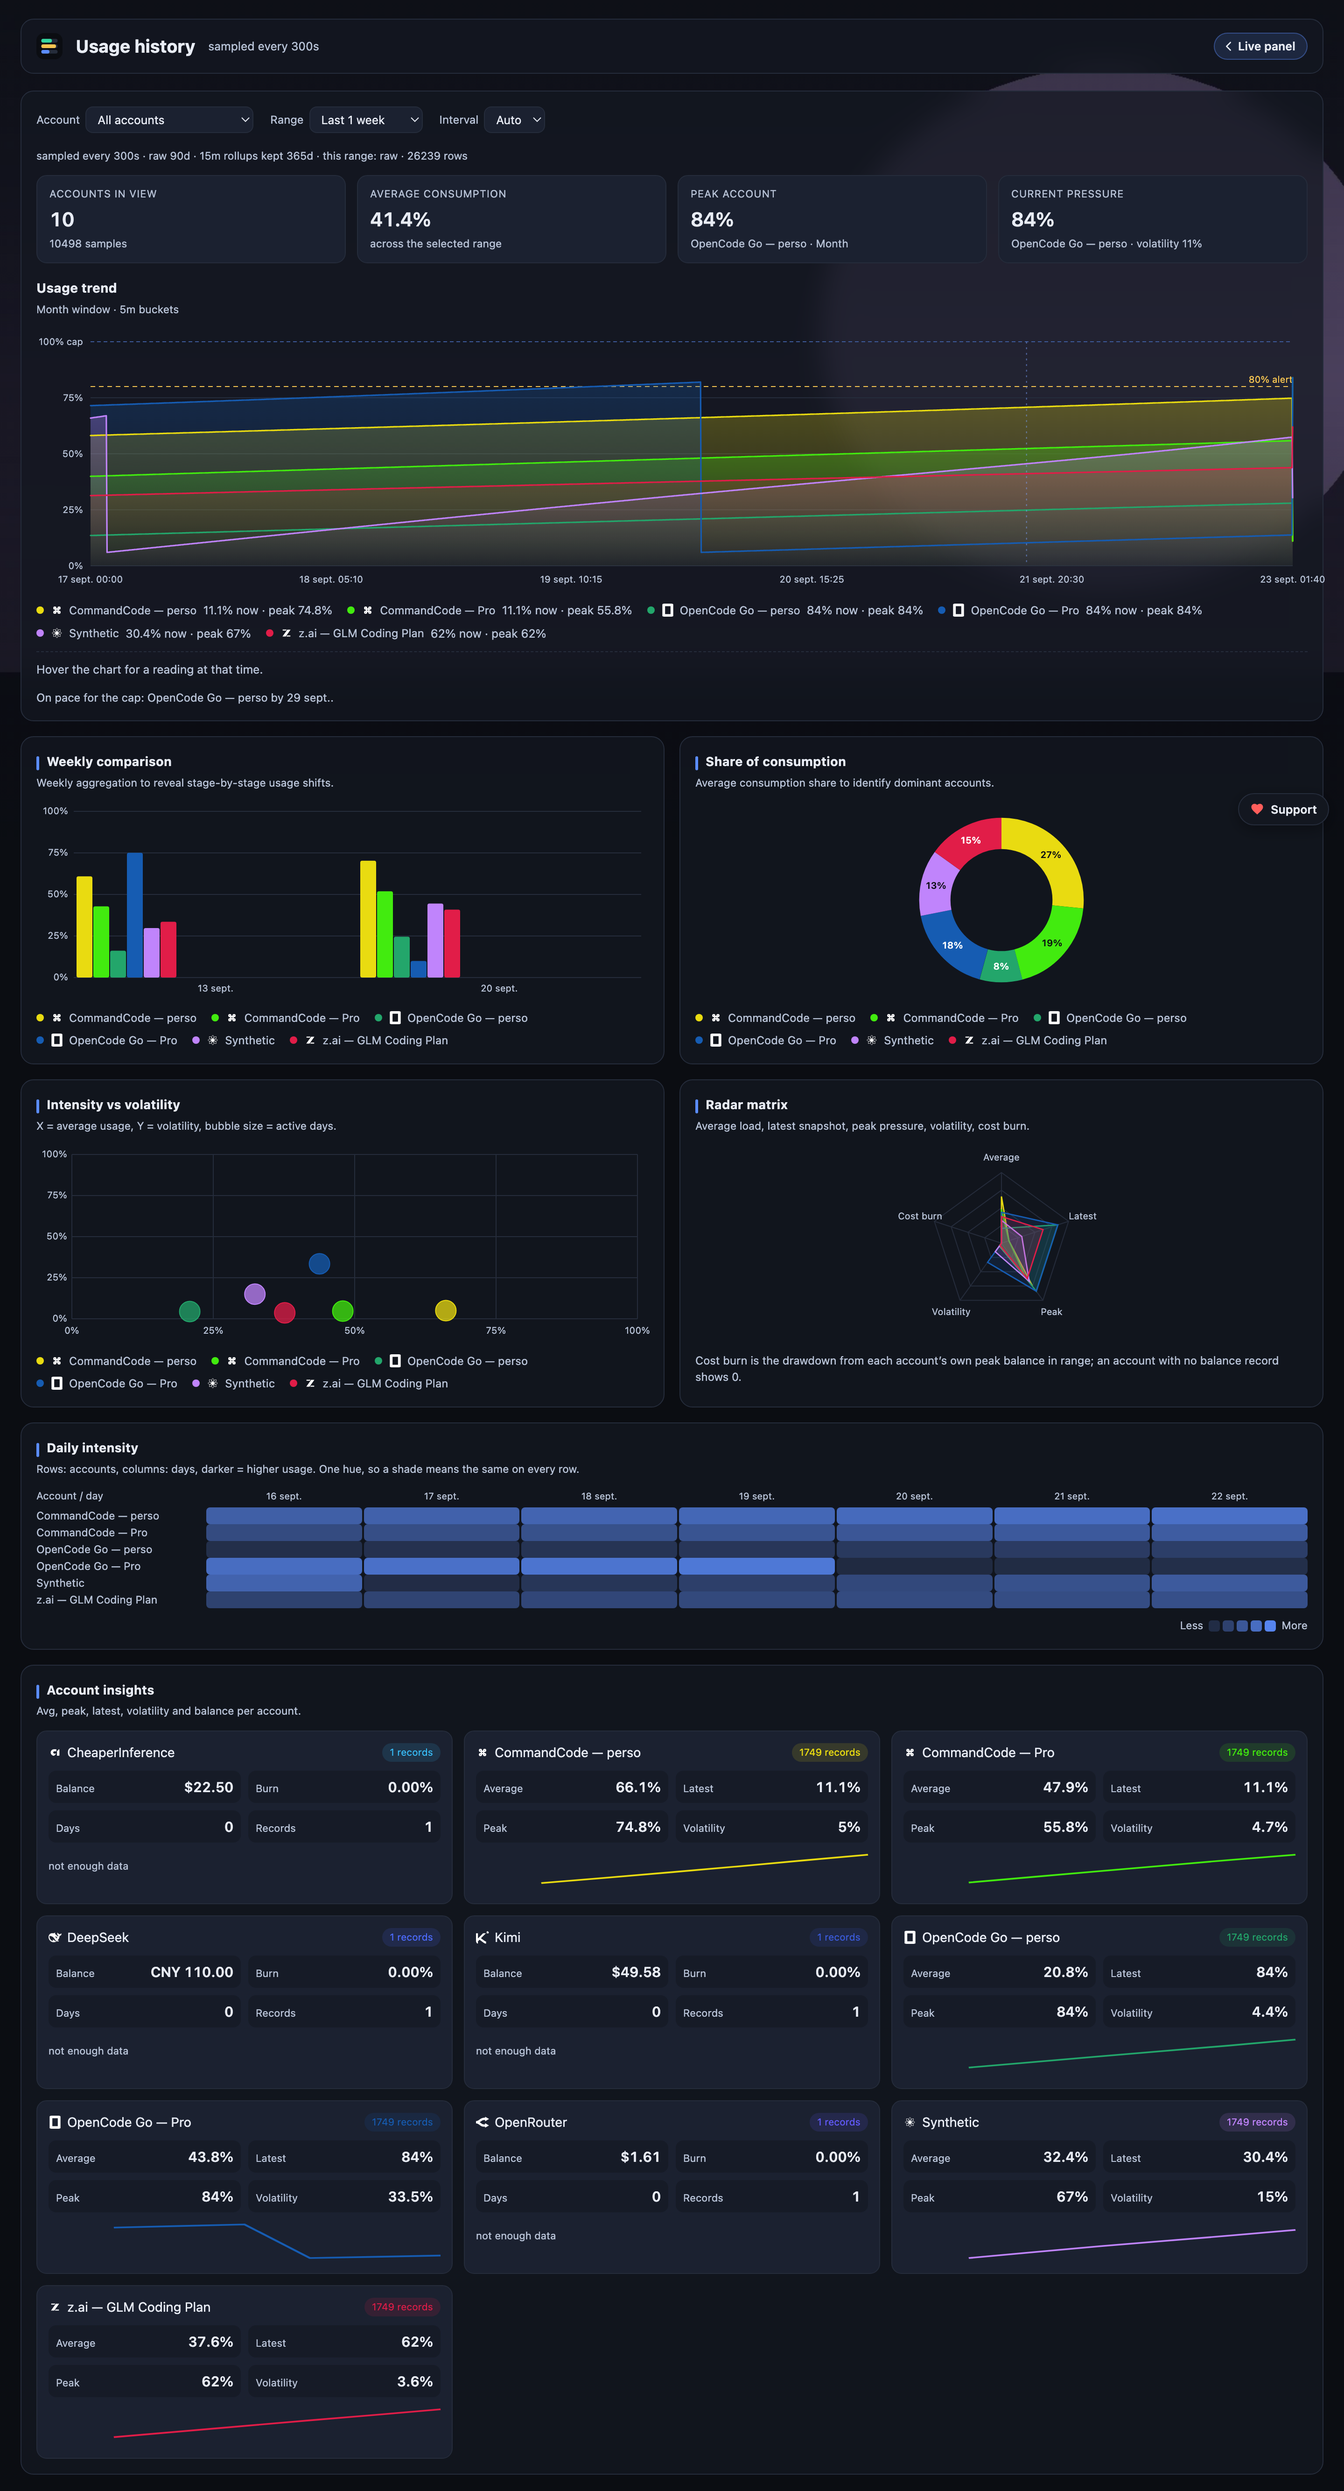
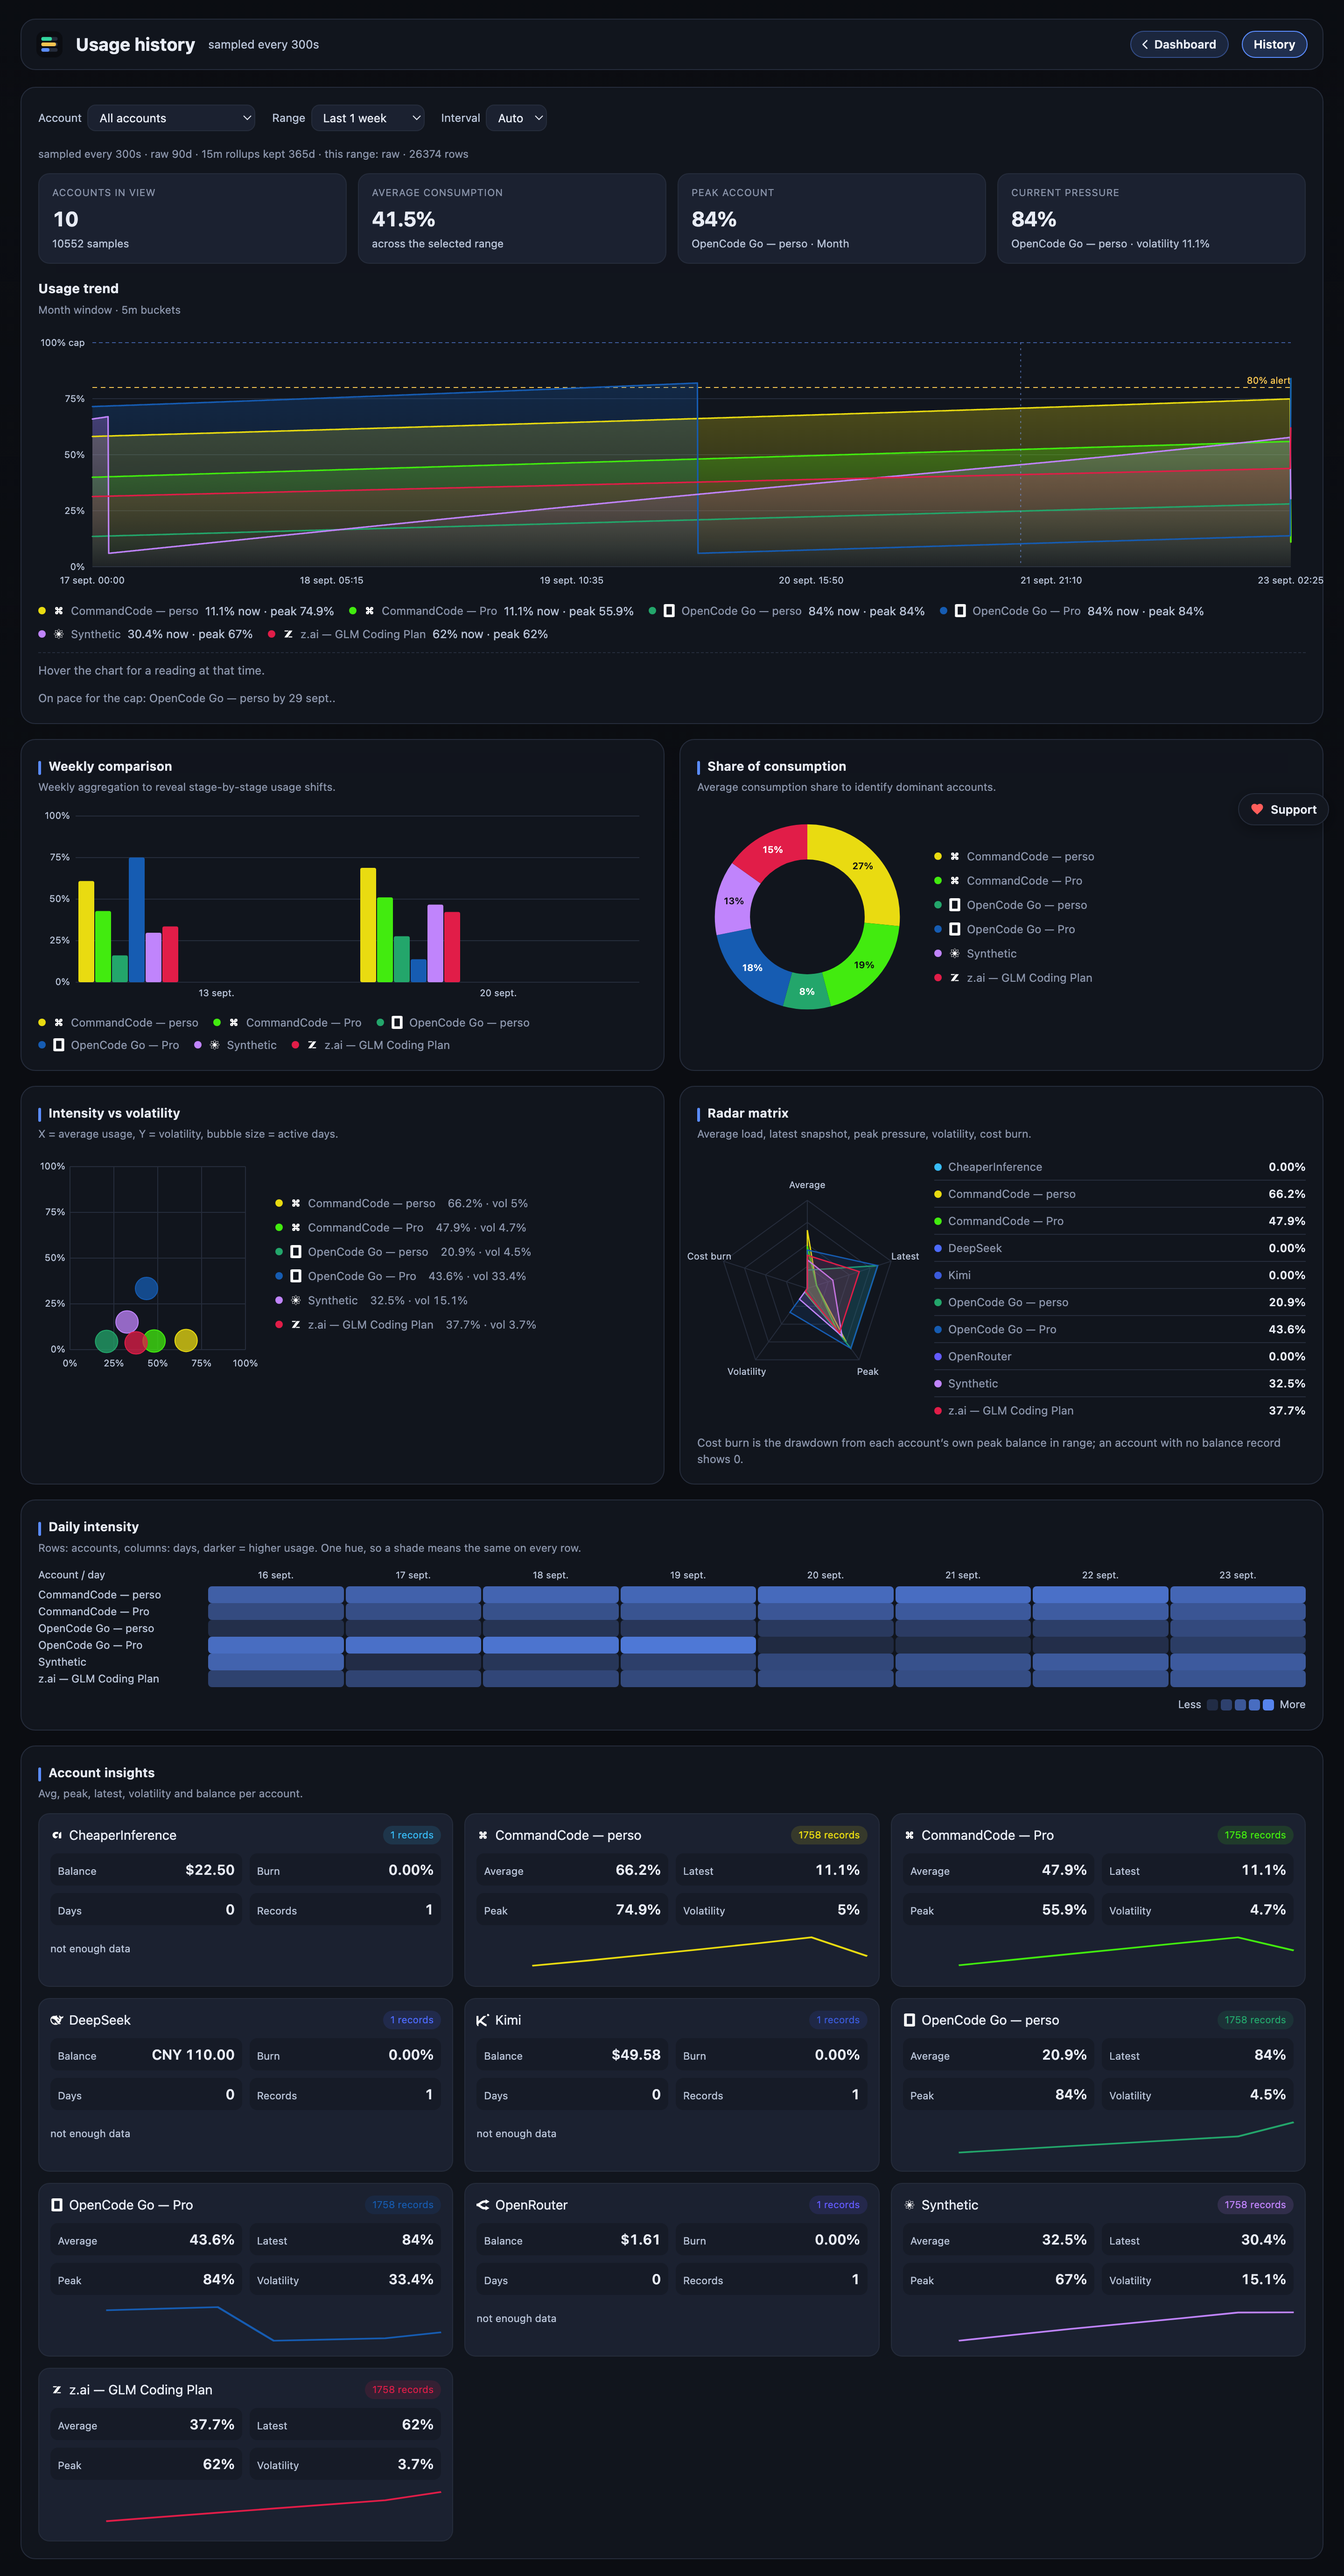
feat(history): square donut, scatter and radar with values beside

diff --git a/static/history.html b/static/history.html
@@ -88,6 +88,20 @@
   .stat .v{font-size:22px;font-weight:700;margin-top:3px;letter-spacing:-.02em;font-variant-numeric:tabular-nums}
   .stat .s{font-size:11.5px;color:var(--muted);margin-top:2px}
   .chart-wrap{position:relative;width:100%}
+  .sq-side{display:flex;align-items:center;gap:18px;margin-top:12px}
+  .sq-side .chart-wrap{flex:0 0 236px;width:236px;max-width:100%;aspect-ratio:1/1}
+  .sq-side .legend{flex:1;margin-top:0;flex-direction:column;gap:8px}
+  .legend button .val{color:var(--dim);margin-left:6px;font-variant-numeric:tabular-nums}
+  .sq-list{list-style:none;margin:0;padding:0;flex:1}
+  .sq-list li{display:flex;align-items:center;justify-content:space-between;gap:12px;
+       padding:5px 0;border-bottom:1px solid var(--line);font-size:12px;color:var(--dim)}
+  .sq-list li:last-child{border-bottom:0}
+  .sq-list li b{color:var(--fg);font-weight:600;font-variant-numeric:tabular-nums}
+  .sq-list .dot{width:8px;height:8px;border-radius:50%;display:inline-block;margin-right:7px}
+  @media (max-width:700px){
+    .sq-side{flex-direction:column}
+    .sq-side .chart-wrap{flex:0 0 auto}
+  }
   svg{display:block;width:100%;height:auto;overflow:visible}
   /* AIMeter's legend: a dot, a name, and a click that shows that line alone. */
   .legend{display:flex;flex-wrap:wrap;gap:6px 16px;margin-top:12px}
@@ -208,8 +222,10 @@
     <section class="panel" id="donut-panel">
       <div class="panel-head"><span class="bar"></span><h2>Share of consumption</h2></div>
       <div class="sub">Average consumption share to identify dominant accounts.</div>
-      <div class="chart-wrap" id="donut"><div class="skel skel-chart"></div></div>
-      <div class="legend" id="donut-legend"></div>
+      <div class="sq-side">
+        <div class="chart-wrap" id="donut"><div class="skel skel-chart"></div></div>
+        <div class="legend" id="donut-legend"></div>
+      </div>
     </section>
   </div>
 
@@ -217,13 +233,18 @@
     <section class="panel" id="scatter-panel">
       <div class="panel-head"><span class="bar"></span><h2>Intensity vs volatility</h2></div>
       <div class="sub">X = average usage, Y = volatility, bubble size = active days.</div>
-      <div class="chart-wrap" id="scatter"><div class="skel skel-chart"></div></div>
-      <div class="legend" id="scatter-legend"></div>
+      <div class="sq-side">
+        <div class="chart-wrap" id="scatter"><div class="skel skel-chart"></div></div>
+        <div class="legend" id="scatter-legend"></div>
+      </div>
     </section>
     <section class="panel" id="radar-panel">
       <div class="panel-head"><span class="bar"></span><h2>Radar matrix</h2></div>
       <div class="sub">Average load, latest snapshot, peak pressure, volatility, cost burn.</div>
-      <div class="chart-wrap" id="radar"><div class="skel skel-chart"></div></div>
+      <div class="sq-side">
+        <div class="chart-wrap" id="radar"><div class="skel skel-chart"></div></div>
+        <ul class="sq-list" id="radar-values"></ul>
+      </div>
       <div class="note" id="radar-note"></div>
     </section>
   </div>
@@ -275,6 +296,9 @@ const REFRESH_MS = 60000;
 // number in both. Provider colours are for the trend, where identity is what a line has to carry.
 const HEAT_HUE = [0x5b, 0x8d, 0xff];     // the mix's own channels; --card-2 is what it mixes into
 const HEAT_CARD = [27, 33, 48];
+// The three charts whose natural shape is a square. Drawn into a square viewBox so the shape fills
+// its tile and every circle stays round, rather than floating in a half-width panel.
+const SQUARE = 236;
 
 const state = {hours:24, bucket:0, account:'', catalogue:null, primary:{}, data:null,
                daily:null, isolate:null, stale:null, clipped:null, requestId:0,
@@ -1349,9 +1373,9 @@ function renderDonut(){
     legend.innerHTML = '';
     return;
   }
-  const width = Math.max(280, host.clientWidth || 420), height = 210;
+  const width = SQUARE, height = SQUARE;
   const cx = width / 2, cy = height / 2;
-  const outer = Math.min(width, height) * 0.42, inner = outer * 0.62;
+  const outer = SQUARE * 0.42, inner = outer * 0.62;
   const R = (outer + inner) / 2, W = outer - inner, C = 2 * Math.PI * R;
   const total = metrics.reduce((sum, m) => sum + Math.max(0, m.mean || 0), 0) || 1;
   let offset = 0;
@@ -1381,6 +1405,21 @@ function renderDonut(){
   bindLegend('donut', renderDonut);
 }
 
+// The scatter's own legend: the same isolate-on-click buttons, each carrying the account's mean and
+// volatility, because a bubble's position is only useful next to its numbers.
+function scatterLegendHtml(metrics){
+  const active = state.panels.scatter;
+  return metrics.map(m =>
+    '<button type="button" data-key="' + esc(m.key) + '" class="'
+    + (active && active !== m.key ? 'off' : '')
+    + '" aria-pressed="' + (active === m.key ? 'true' : 'false')
+    + '" title="Click to show this one alone">'
+    + '<span class="dot" style="background:' + m.color + '"></span>'
+    + badgeHtml(m.provider, m.label)
+    + '<span class="val">' + fmtPercent(m.mean) + ' · vol ' + fmtPercent(m.volatility || 0) + '</span>'
+    + '</button>').join('');
+}
+
 function renderScatter(){
   const host = document.getElementById('scatter');
   const legend = document.getElementById('scatter-legend');
@@ -1392,8 +1431,8 @@ function renderScatter(){
     if(legend) legend.innerHTML = '';
     return;
   }
-  const width = Math.max(320, host.clientWidth || 460), height = 210;
-  const pad = {left: 38, right: 12, top: 10, bottom: 24};
+  const width = SQUARE, height = SQUARE;
+  const pad = {left: 34, right: 14, top: 14, bottom: 26};
   const plotW = width - pad.left - pad.right, plotH = height - pad.top - pad.bottom;
   const x = value => pad.left + (Math.max(0, Math.min(value, 100)) / 100) * plotW;
   const y = value => pad.top + plotH - (Math.max(0, Math.min(value, 100)) / 100) * plotH;
@@ -1415,7 +1454,7 @@ function renderScatter(){
   svg += '</svg>';
   host.innerHTML = svg;
   if(legend){
-    legend.innerHTML = legendHtml(metrics, 'scatter');
+    legend.innerHTML = scatterLegendHtml(metrics);
     bindLegend('scatter', renderScatter);
   }
 }
@@ -1431,8 +1470,8 @@ function renderRadar(){
     note.textContent = '';
     return;
   }
-  const width = Math.max(300, host.clientWidth || 420), height = 210;
-  const cx = width / 2, cy = height / 2, R = Math.min(width, height) * 0.36;
+  const width = SQUARE, height = SQUARE;
+  const cx = width / 2, cy = height / 2, R = SQUARE * 0.40;
   const dims = [
     {label: 'Average', value: m => m.mean || 0},
     {label: 'Latest', value: m => m.latest || 0},
@@ -1463,6 +1502,15 @@ function renderRadar(){
   });
   svg += '</svg>';
   host.innerHTML = svg;
+  const values = document.getElementById('radar-values');
+  if(values){
+    values.innerHTML = metrics.length === 1
+      ? '<li><b>' + esc(metrics[0].label) + '</b></li>'
+        + dims.map(d => '<li><span>' + esc(d.label) + '</span><b>'
+            + fmtPercent(d.value(metrics[0]) || 0) + '</b></li>').join('')
+      : metrics.map(m => '<li><span><span class="dot" style="background:' + m.color + '"></span>'
+            + esc(m.label) + '</span><b>' + fmtPercent(m.mean || 0) + '</b></li>').join('');
+  }
   const hasBalance = metrics.some(m => m.costBurn !== null && m.costBurn !== undefined);
   note.textContent = hasBalance
     ? 'Cost burn is the drawdown from each account’s own peak balance in range; an account with no balance record shows 0.'

diff --git a/tests/history.py b/tests/history.py
@@ -949,6 +949,10 @@ def page_checks():
     check("a restored interval the range cannot afford falls back to Auto",
           "if(state.bucket && state.bucket < floor) state.bucket = 0;" in page,
           "an over-fine bucket would ask the server for more points than it allows")
+    check("the square charts draw into one square box",
+          "const SQUARE = 236" in page and "function scatterLegendHtml" in page
+          and 'id="radar-values"' in page,
+          "a radar or donut floating in a wide tile is unreadable")
 
     heat = page.split("async function renderHeatmap()")[1].split("// ---")[0] if \
         "async function renderHeatmap()" in page else ""
